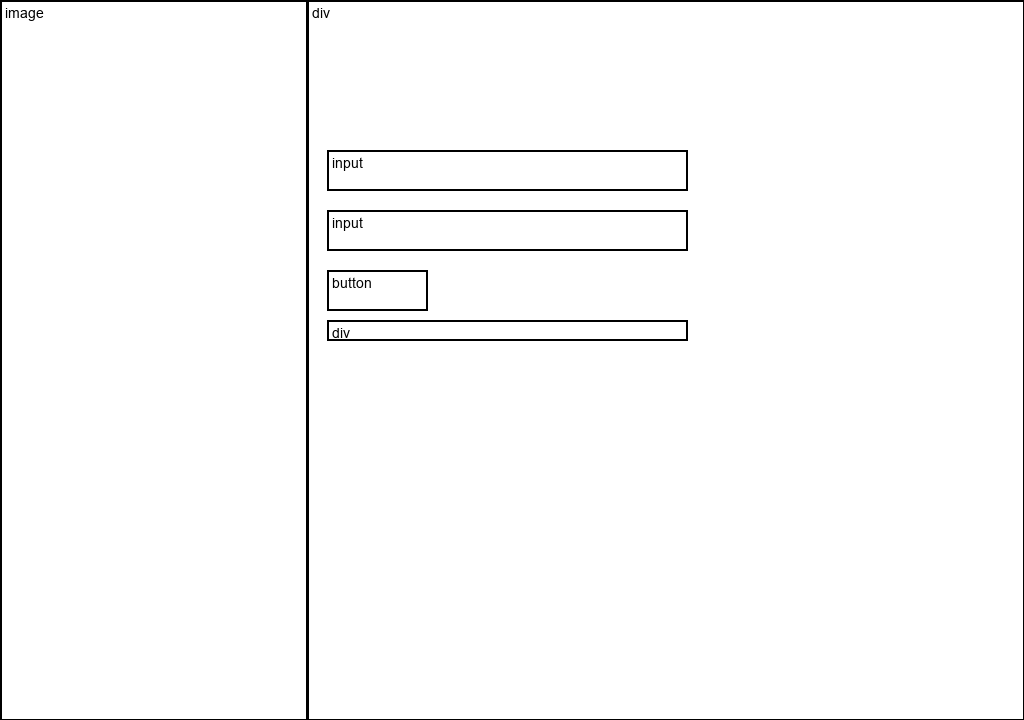
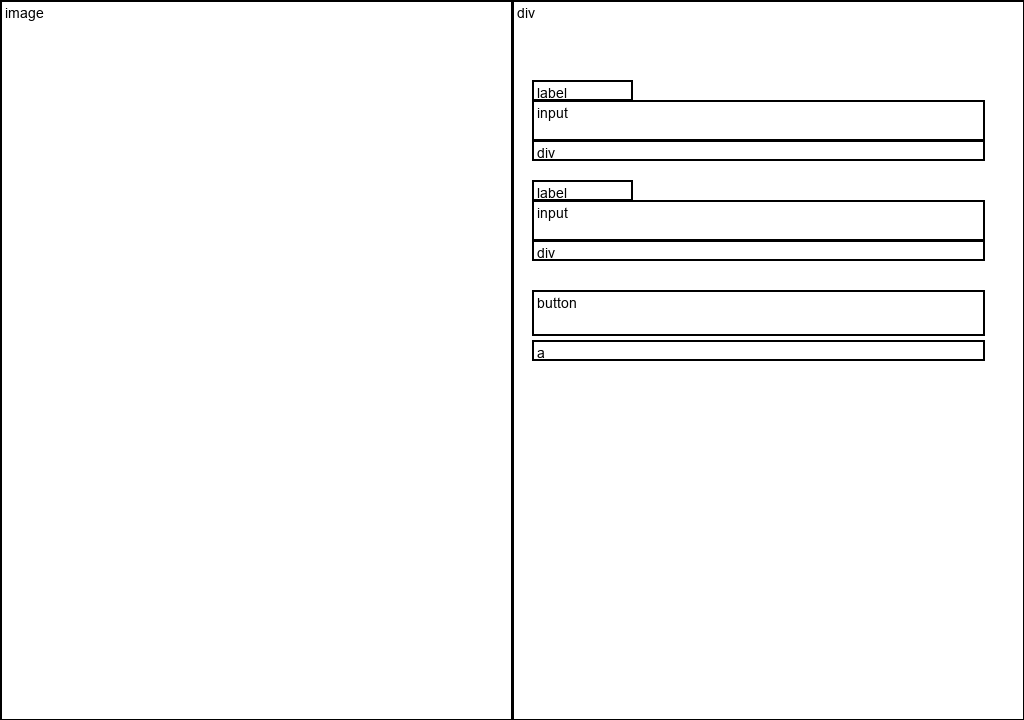
input changes

diff --git a/src/web_agency/wireframes/wireframe.html b/src/web_agency/wireframes/wireframe.html
@@ -3,59 +3,66 @@
 <head>
     <meta charset="UTF-8">
     <meta name="viewport" content="width=device-width, initial-scale=1.0">
-    <title>Wireframe Layout</title>
+    <title>Wireframe</title>
     <style>
         body {
-            display: flex;
             margin: 0;
+            display: flex;
+            height: 100vh;
             font-family: Arial, sans-serif;
-            height: 720px;
-            overflow: hidden;
-        }
-        .container {
-            display: flex;
-            width: 1024px;
-            height: 720px;
-        }
-        .image {
-            width: 307px;
-            height: 720px;
-            background-color: lightgrey; /* Placeholder for image */
-        }
-        .content {
-            display: flex;
-            flex-direction: column;
-            width: 717px;
-            height: 720px;
-            padding: 20px;
             box-sizing: border-box;
         }
-        .input {
-            width: 360px;
-            height: 40px;
-            margin-bottom: 10px;
+        .image-container {
+            flex: 1;
+            background-color: #f0f0f0; /* Placeholder for an actual image */
         }
-        .button {
-            width: 100px;
-            height: 40px;
-            margin-top: 10px;
+        .form-container {
+            flex: 1;
+            padding: 20px;
+            display: flex;
+            flex-direction: column;
+            gap: 20px;
         }
-        .divider {
-            width: 360px;
-            height: 20px;
-            margin-top: 20px;
+        label {
+            font-weight: bold;
+        }
+        input {
+            padding: 10px;
+            font-size: 16px;
+            width: 100%;
+            box-sizing: border-box;
+        }
+        .validation-message {
+            font-size: 12px;
+            color: red;
+        }
+        button {
+            padding: 15px;
+            font-size: 16px;
+            cursor: pointer;
+        }
+        a {
+            color: blue;
+            text-decoration: underline;
+            font-size: 14px;
         }
     </style>
 </head>
 <body>
-    <div class="container">
-        <div class="image" role="img" aria-label="Placeholder for image"></div>
-        <div class="content">
-            <input type="text" class="input" placeholder="Input 1" aria-label="Input field for first entry">
-            <input type="text" class="input" placeholder="Input 2" aria-label="Input field for second entry">
-            <button class="button" aria-label="Submit button">Submit</button>
-            <div class="divider" aria-hidden="true"></div>
-        </div>
+    <div class="image-container" aria-label="Image Section"></div>
+    <div class="form-container" aria-labelledby="form-title">
+        <h1 id="form-title" style="display: none;">Login Form</h1>
+        
+        <label for="email">Email Address</label>
+        <input type="email" id="email" placeholder="Enter your email">
+        <div class="validation-message" id="email-validation-message">Invalid email address</div>
+
+        <label for="password">Password</label>
+        <input type="password" id="password" placeholder="Enter your password">
+        <div class="validation-message" id="password-validation-message">Password is required</div>
+
+        <button type="submit">Login</button>
+        <a href="#">Forgot Password?</a>
     </div>
 </body>
 </html>

diff --git a/src/web_agency/main.py b/src/web_agency/main.py
@@ -1,7 +1,6 @@
 #!/usr/bin/env python
 import sys
 import warnings
-from datetime import datetime
 from crew import WebAgency
 import os
 import agentops
@@ -17,15 +16,26 @@ def run():
     """
     Run the crew.
     """
-    session = agentops.init(api_key=os.getenv("AGENTOPS_API_KEY"))
+    print("🚀 Crew startet...")  # Debugging-Print
+    session = agentops.init(api_key=os.getenv("AGENTOPS_API_KEY")) # Start AgentOps Session
     
+
+    def get_input(prompt, default):
+        user_input = input(f"{prompt} (Default: {default}): ")
+        return user_input.strip() if user_input.strip() != "" else default
+
     inputs = {
-        'user_description' : "A login screen with two input fields mail an password and sumbit button, there should be an error when the login failed or the user sends the form and one input field is missing. There should also be a visual image element on the left"
+        'feature_description': get_input("📝 Describe the feature you'd like to build", "Login screen with email & password input"),
+        'functional_requirements': get_input("⚙  What are the key functional requirements?", "User authentication, error handling for missing fields"),
+        'layout_requirements': get_input("🎨 Any layout or design preferences?", "Image on the left, Form on the right, clean and modern UI"),
+        'edge_cases': get_input("🚧 Any specific edge cases or error scenarios to handle?", "Error message on login failure or empty fields"),
     }
 
     result = WebAgency().crew().kickoff(inputs=inputs)
     print(result)
-    session.end_session("AgentOps ended")
+
+    session.end_session("✅ AgentOps ended") # End AgentOps Session
+    print("✅ Crew finished!") # Debugging-Print
 
 if __name__ == "__main__":
     run()

diff --git a/src/web_agency/crew.py b/src/web_agency/crew.py
@@ -38,7 +38,7 @@ class WebAgency():
 			verbose=True,
 			memory=True,
 		)
-
+	
 	@agent
 	def wireframe_visualizer(self) -> Agent:
 		return Agent(
